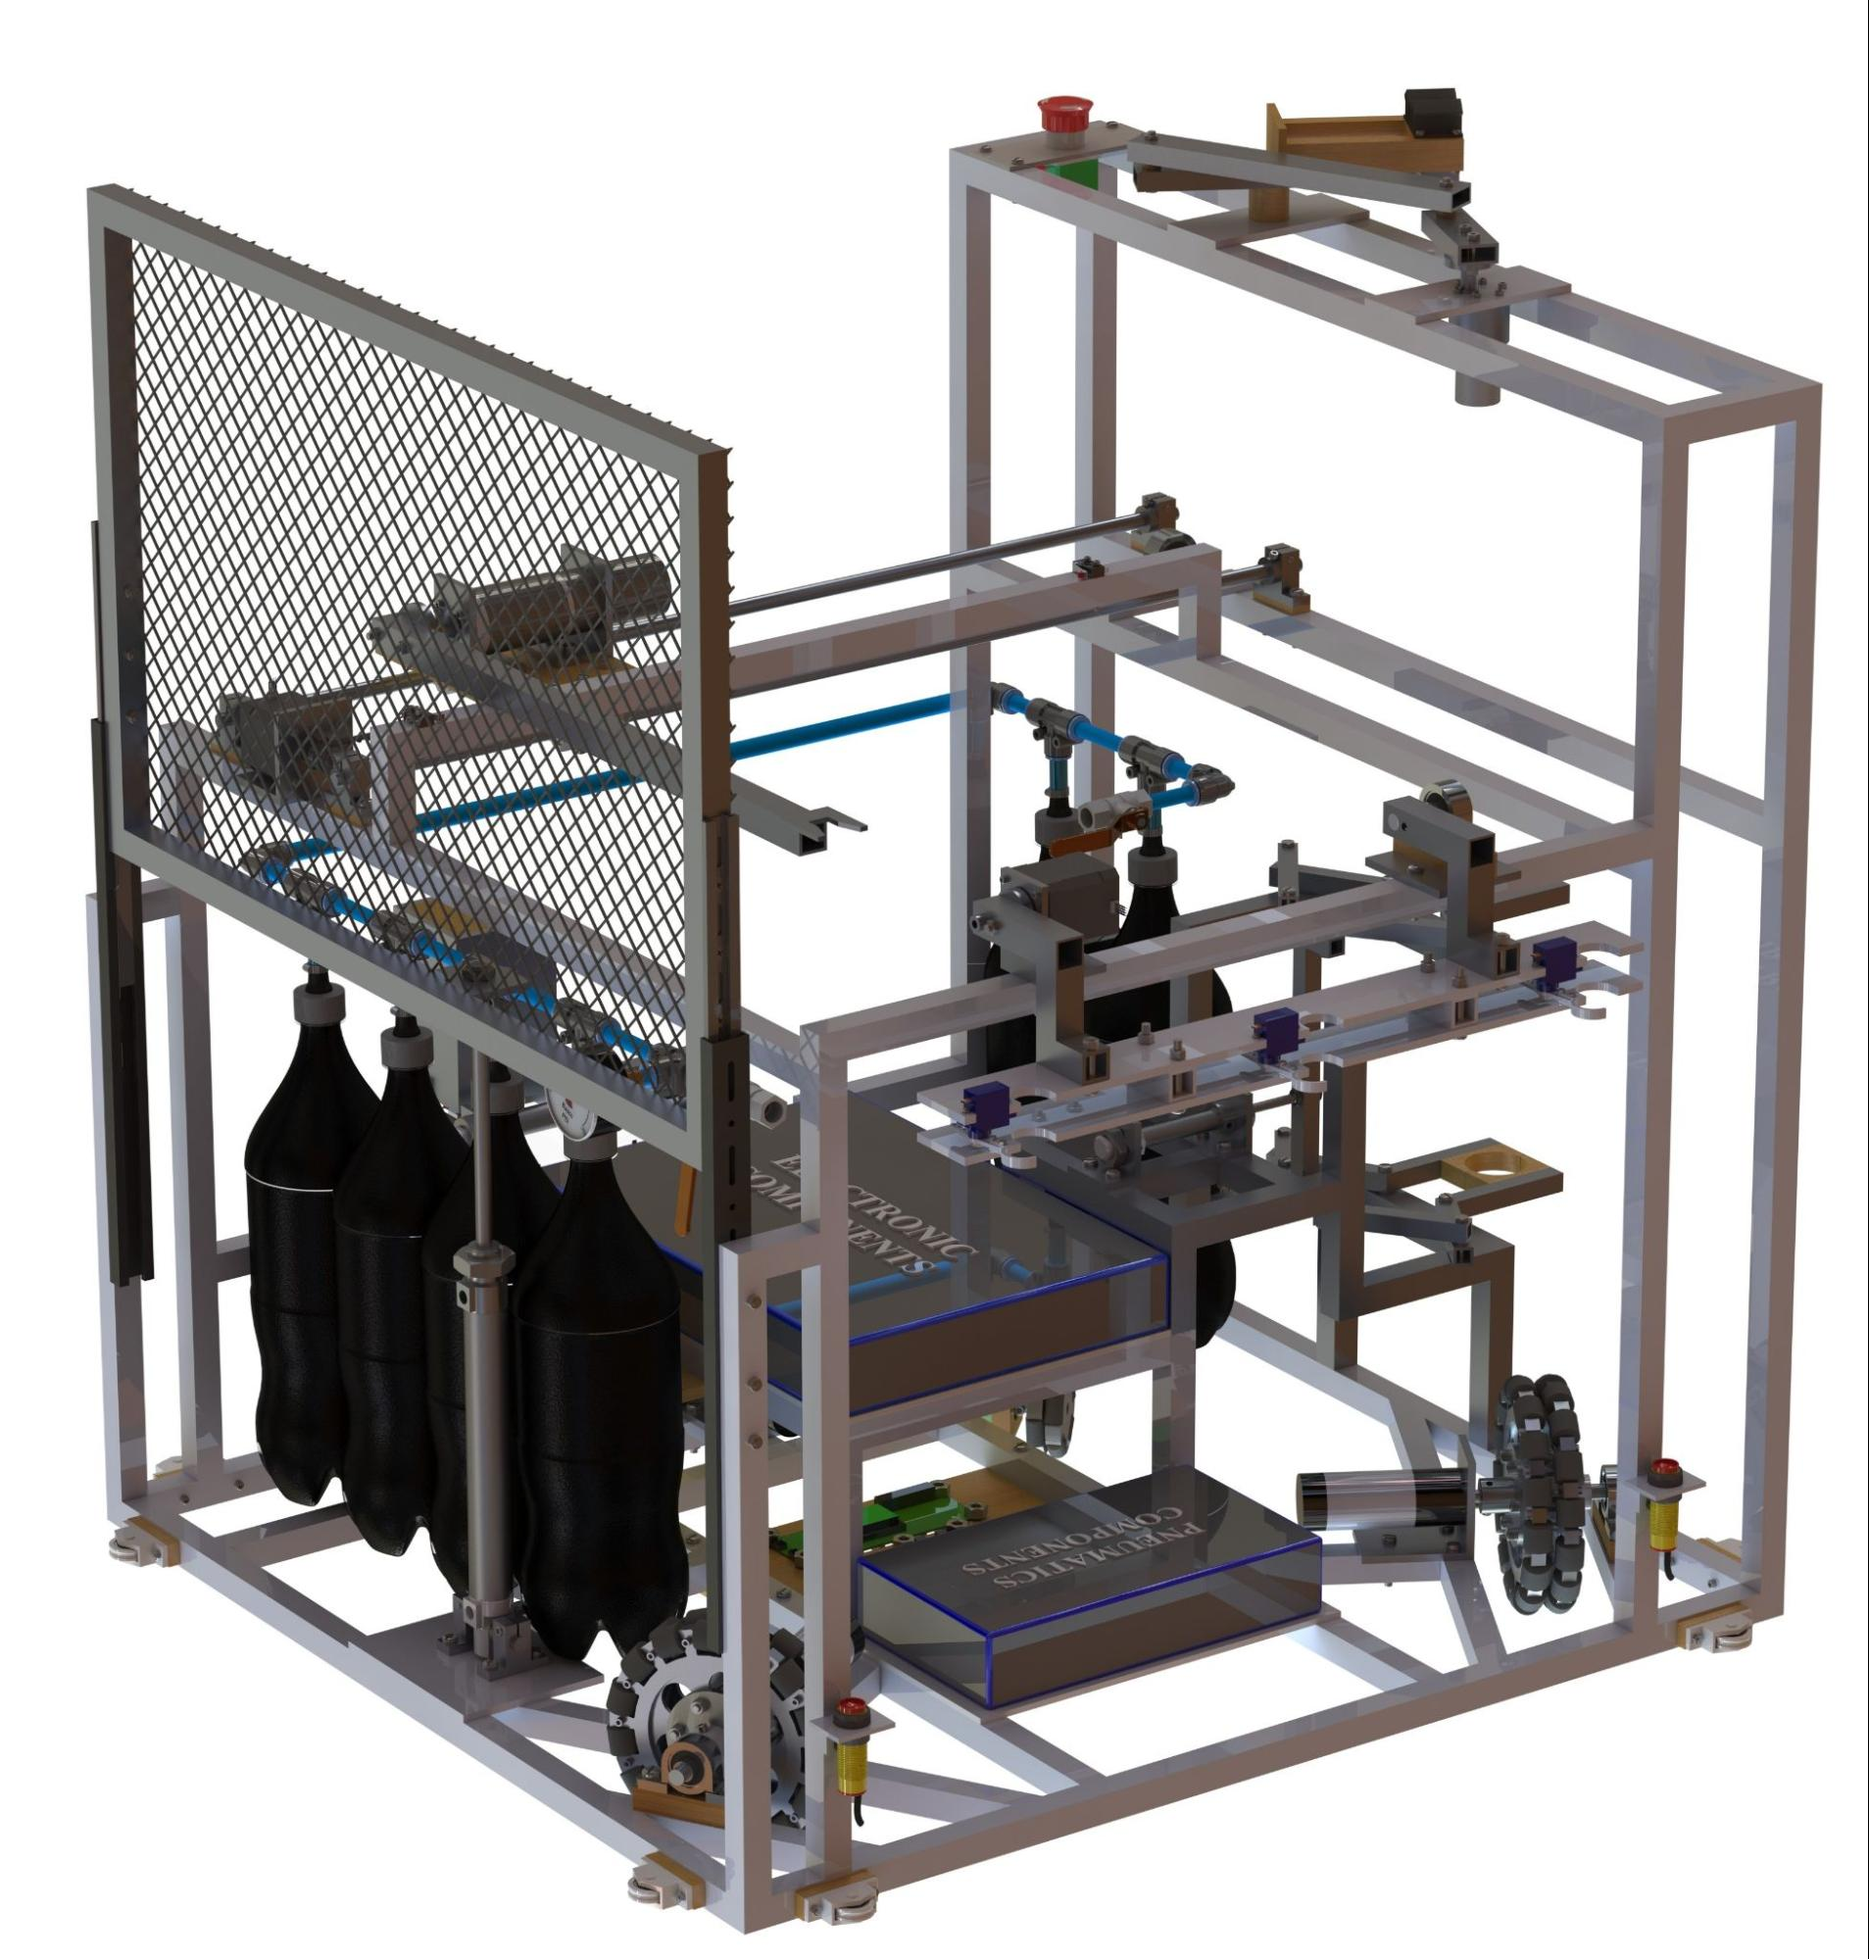
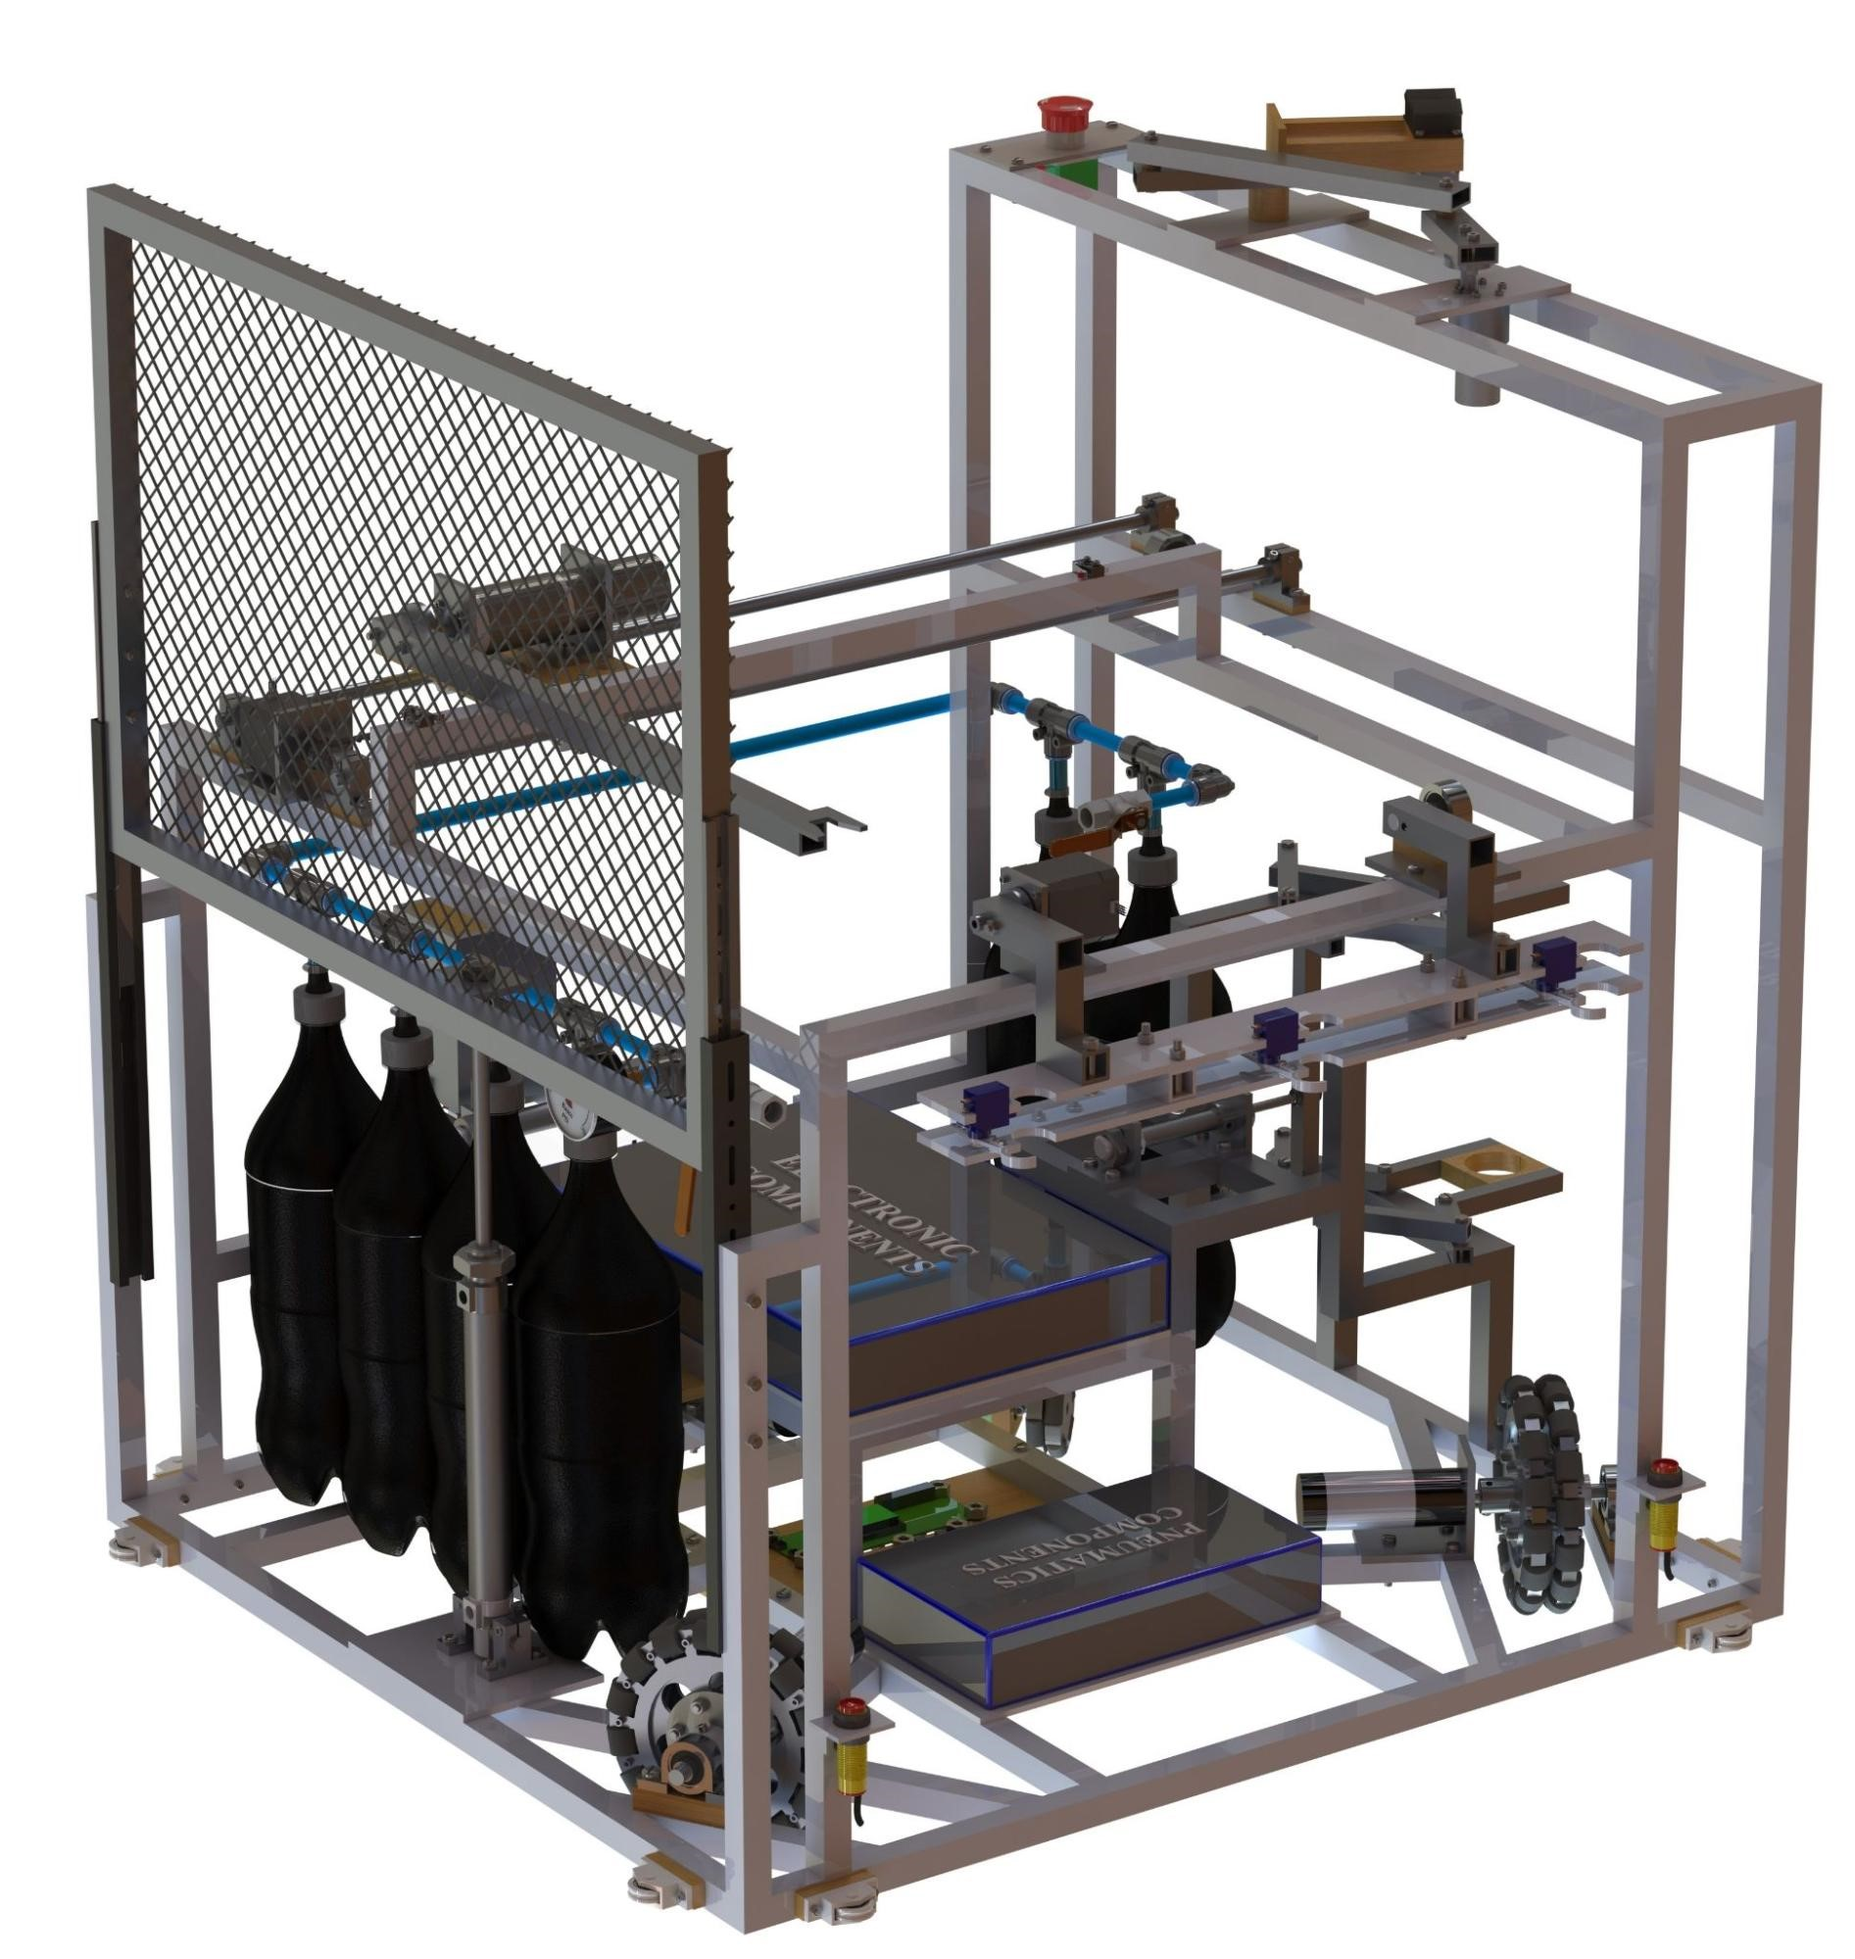
images 2021

diff --git a/index.html b/index.html
@@ -133,8 +133,8 @@
             </p>
         </div>
         <div class="year-images">
-            <img class="" src="images/image3.jpg">
-            <img class="" src="images/image2.jpg">
+            <img style="width: 38%" src="images/image3.jpg">
+            <img style="width: 52%" src="images/image2.jpg">
         </div>
     </div>
 </div>
